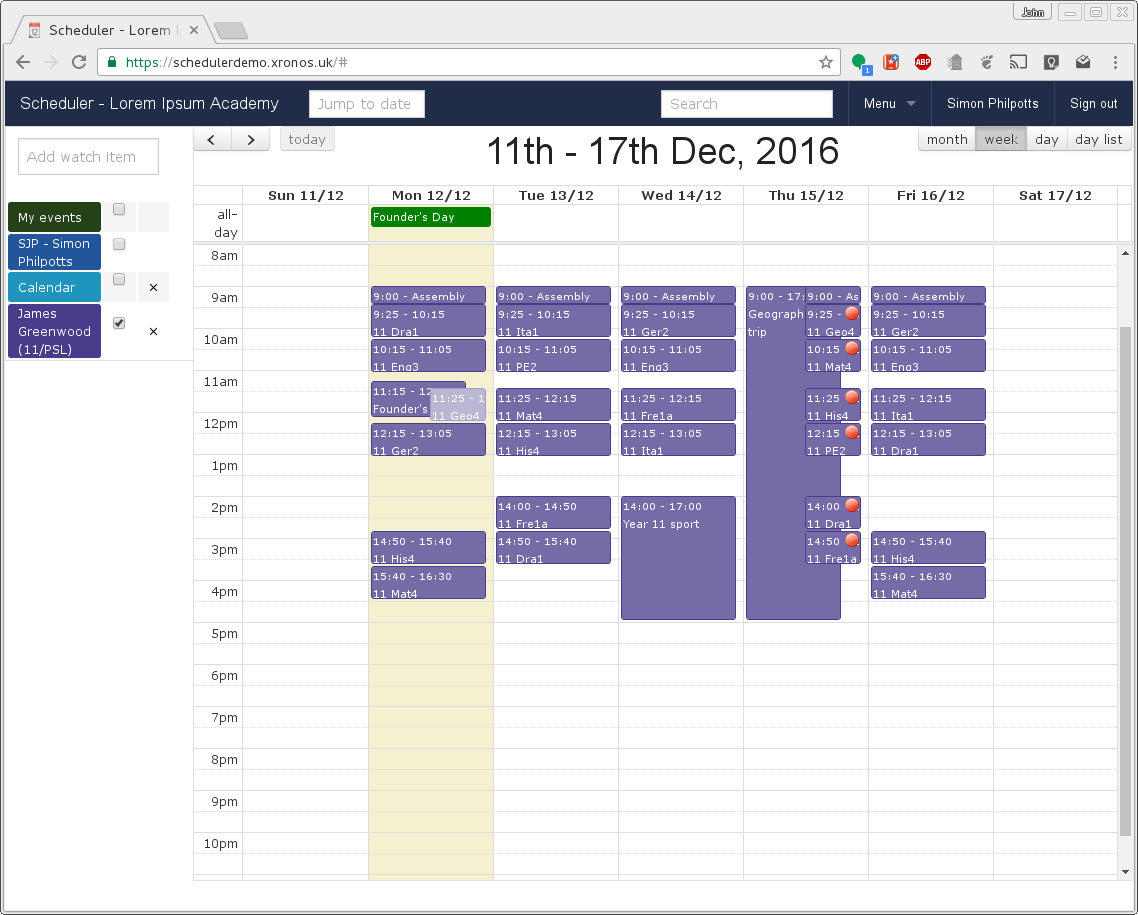
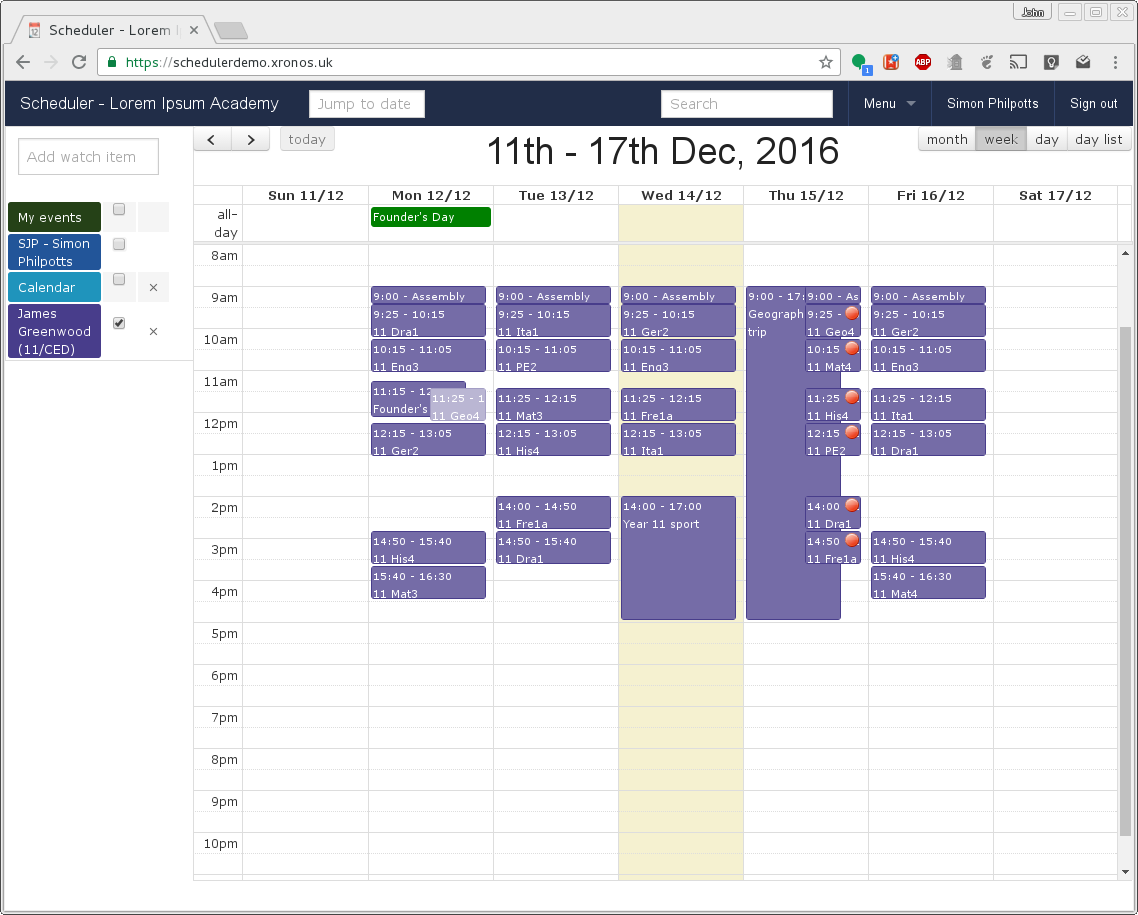
More stuff.

Changed region(s): [[0.5228, 0.2142, 0.6766, 0.9792], [0.3076, 0.2448, 0.4306, 0.9792], [0.0308, 0.3672, 0.0615, 0.3978]]

diff --git a/reports.rst b/reports.rst
@@ -113,6 +113,84 @@ a DOC file (suitable for a word processor).
   
 You can then tweak the report using the following available switches:
 
+.. csv-table:: Report switches
+   :header: "Switch", "Meaning"
+   :widths: 10, 40
+
+   compact, "Hello there - I'm a meaning"
+   duration, "This one too has a meaning, of sorts."
+
+
++-------------------+-------------------------------------+
+| Switch            | Meaning                             |
++===================+=====================================+
+| compact           | Hello there - I'm a meaning         |
++-------------------+-------------------------------------+
+| duration          | And here's another.                 |
++-------------------+-------------------------------------+
+
+
+
+
+========  =======================================
+Switch     Meaning
+========  =======================================
+compact   What happens if my words go on too far?
+
+          Can I have more than one line of text
+
+          associated with the same bit on the left?
+duration  And this one does too.
+========  =======================================
+
+
+
+.. list-table:: Report switches
+   :widths: 60 220
+   :header-rows: 1
+
+   * - Switch
+     - Meaning
+   * - compact
+     - words of explanation
+   * - duration
+     - words of explanation.  In fact, quite a lot of explanation.
+       More than enough to fill the full width of the box and then
+       wrap onto a following line.  Will it mess up and squeeze the
+       left hand column?
+
+       A fresh paragraph.
+   * - mark_end
+     - words of explanation
+   * - locations
+     - words of explanation
+   * - staff
+     - words of explanation
+   * - pupils
+     - words of explanation
+   * - periods
+     - words of explanation
+   * - start_date=
+     - words of explanation
+   * - end_date=
+     - words of explanation
+   * - twelve_hour
+     - words of explanation
+   * - no_end_time
+     - words of explanation
+   * - breaks
+     - words of explanation
+   * - suppress_empties
+     - words of explanation
+   * - tentative
+     - words of explanation
+   * - firm
+     - words of explanation
+   * - categories=
+     - words of explanation
+
+
+
 * compact
 * duration
 * mark_end

diff --git a/background.rst b/background.rst
@@ -1,0 +1,33 @@
+Background
+==============
+
+Anyone who is involved with a school will know that they are immensely
+busy places with far more going on than just the timetable would indicate.
+Scheduler started as a project in a single school to try to keep
+track of everything which was happening.
+
+Although staff did their
+best to make each other aware of planned events, this was mainly
+done by means of public announcements in weekly meetings and lists
+of pupils pinned to boards.  The overhead of every member of staff
+reading all these lists and mentally comparing them with their
+own set lists (and taking into account the timing of the events) was
+considerable.
+
+For some reason, pupils never think to mention that they seem to
+be scheduled both to play in a concert and to go on a theatre
+trip on the same evening - not until the actual day arrives anyway.
+
+Early versions worked by parsing PDFs of all the staff and pupil
+timetables in order to populate the events database!  Over time
+a better import mechanism was constructed and Scheduler now has
+the means to interface with Schola (an in-house developed MIS),
+SchoolBase (using direct database access) and iSAMS (using a mixture
+of the iSAMS API, and direct database access where the API is lacking).
+
+It is in daily use for a school of over 1000 pupils and 400 staff, and
+is the prime repository for much of the school's scheduling information.
+The timetable, cover and regular activities come automatically from the
+school's MIS (updated nightly) and then Scheduler holds the school's
+calendar, plus all the other events which aren't on the timetable.
+

diff --git a/quicktour.rst b/quicktour.rst
@@ -181,6 +181,14 @@ a pupil changes set in the middle of a week then the schedule will reflect
 this, showing lessons in one set at the start of the week, and lessons
 in the other at the end.
 
+Look closely at James Greenwood's maths lessons on Monday, Tuesday,
+Thursday and Friday.  On Monday and Tuesday he is in 11 Mat3 
+with David Jones in L102.  On Thursday and Friday he is in 11 Mat4
+with Simon Philpotts in L101.  (Click on the individual
+event entries to get this level of detail.)  The system knows that
+James changed maths sets mid week, and the display of his schedule
+reflects this.
+
 Scheduler understands that the population of groups - particularly
 teaching sets - changes over time.  It doesn't store just a list of members
 but full details of the group's population at any given moment in its

diff --git a/overview.rst b/overview.rst
@@ -8,7 +8,13 @@ Overview
 Xronos Scheduler is a scheduling program designed primarily for use in
 schools, but potentially of use elsewhere.
 
-Its objective is to provide all the information which staff and pupils
+Think of it as being much
+like any other calendar program, but with structure added.  Instead of
+having lots of separate calendars it stores just one calendar - and keeps
+track of who and what is involved in each event.  You can then view
+any part of the calendar depending on what resources involves.
+
+The objective is to provide all the information which staff and pupils
 need about what's happening in the school and when *all in one place*
 and with the information already tailored to suit each individual user.
 Usually all this information already exists within the school, but it's

diff --git a/credits.rst b/credits.rst
@@ -1,0 +1,14 @@
+Credits
+==============
+
+Scheduler is written in Ruby, using the Rails application framework.
+
+The underlying database is MySQL.
+
+For calendar display it makes use of FullCalendar, with the general
+interface being driven by Zurb Foundation.
+
+The target server runs Debian GNU/Linux version 8 (Jessie) although
+it should be possible to run the software on any Linux variant, MacOS X,
+or even Windows.
+

diff --git a/index.rst b/index.rst
@@ -17,10 +17,12 @@ This documentation is a work in progress.
 .. toctree::
 
    overview
+   background
    quicktour
    concepts
    tweaking
    reports
+   credits
 
 
 Scheduler is licensed under the GNU General Public Licence, version 2.
